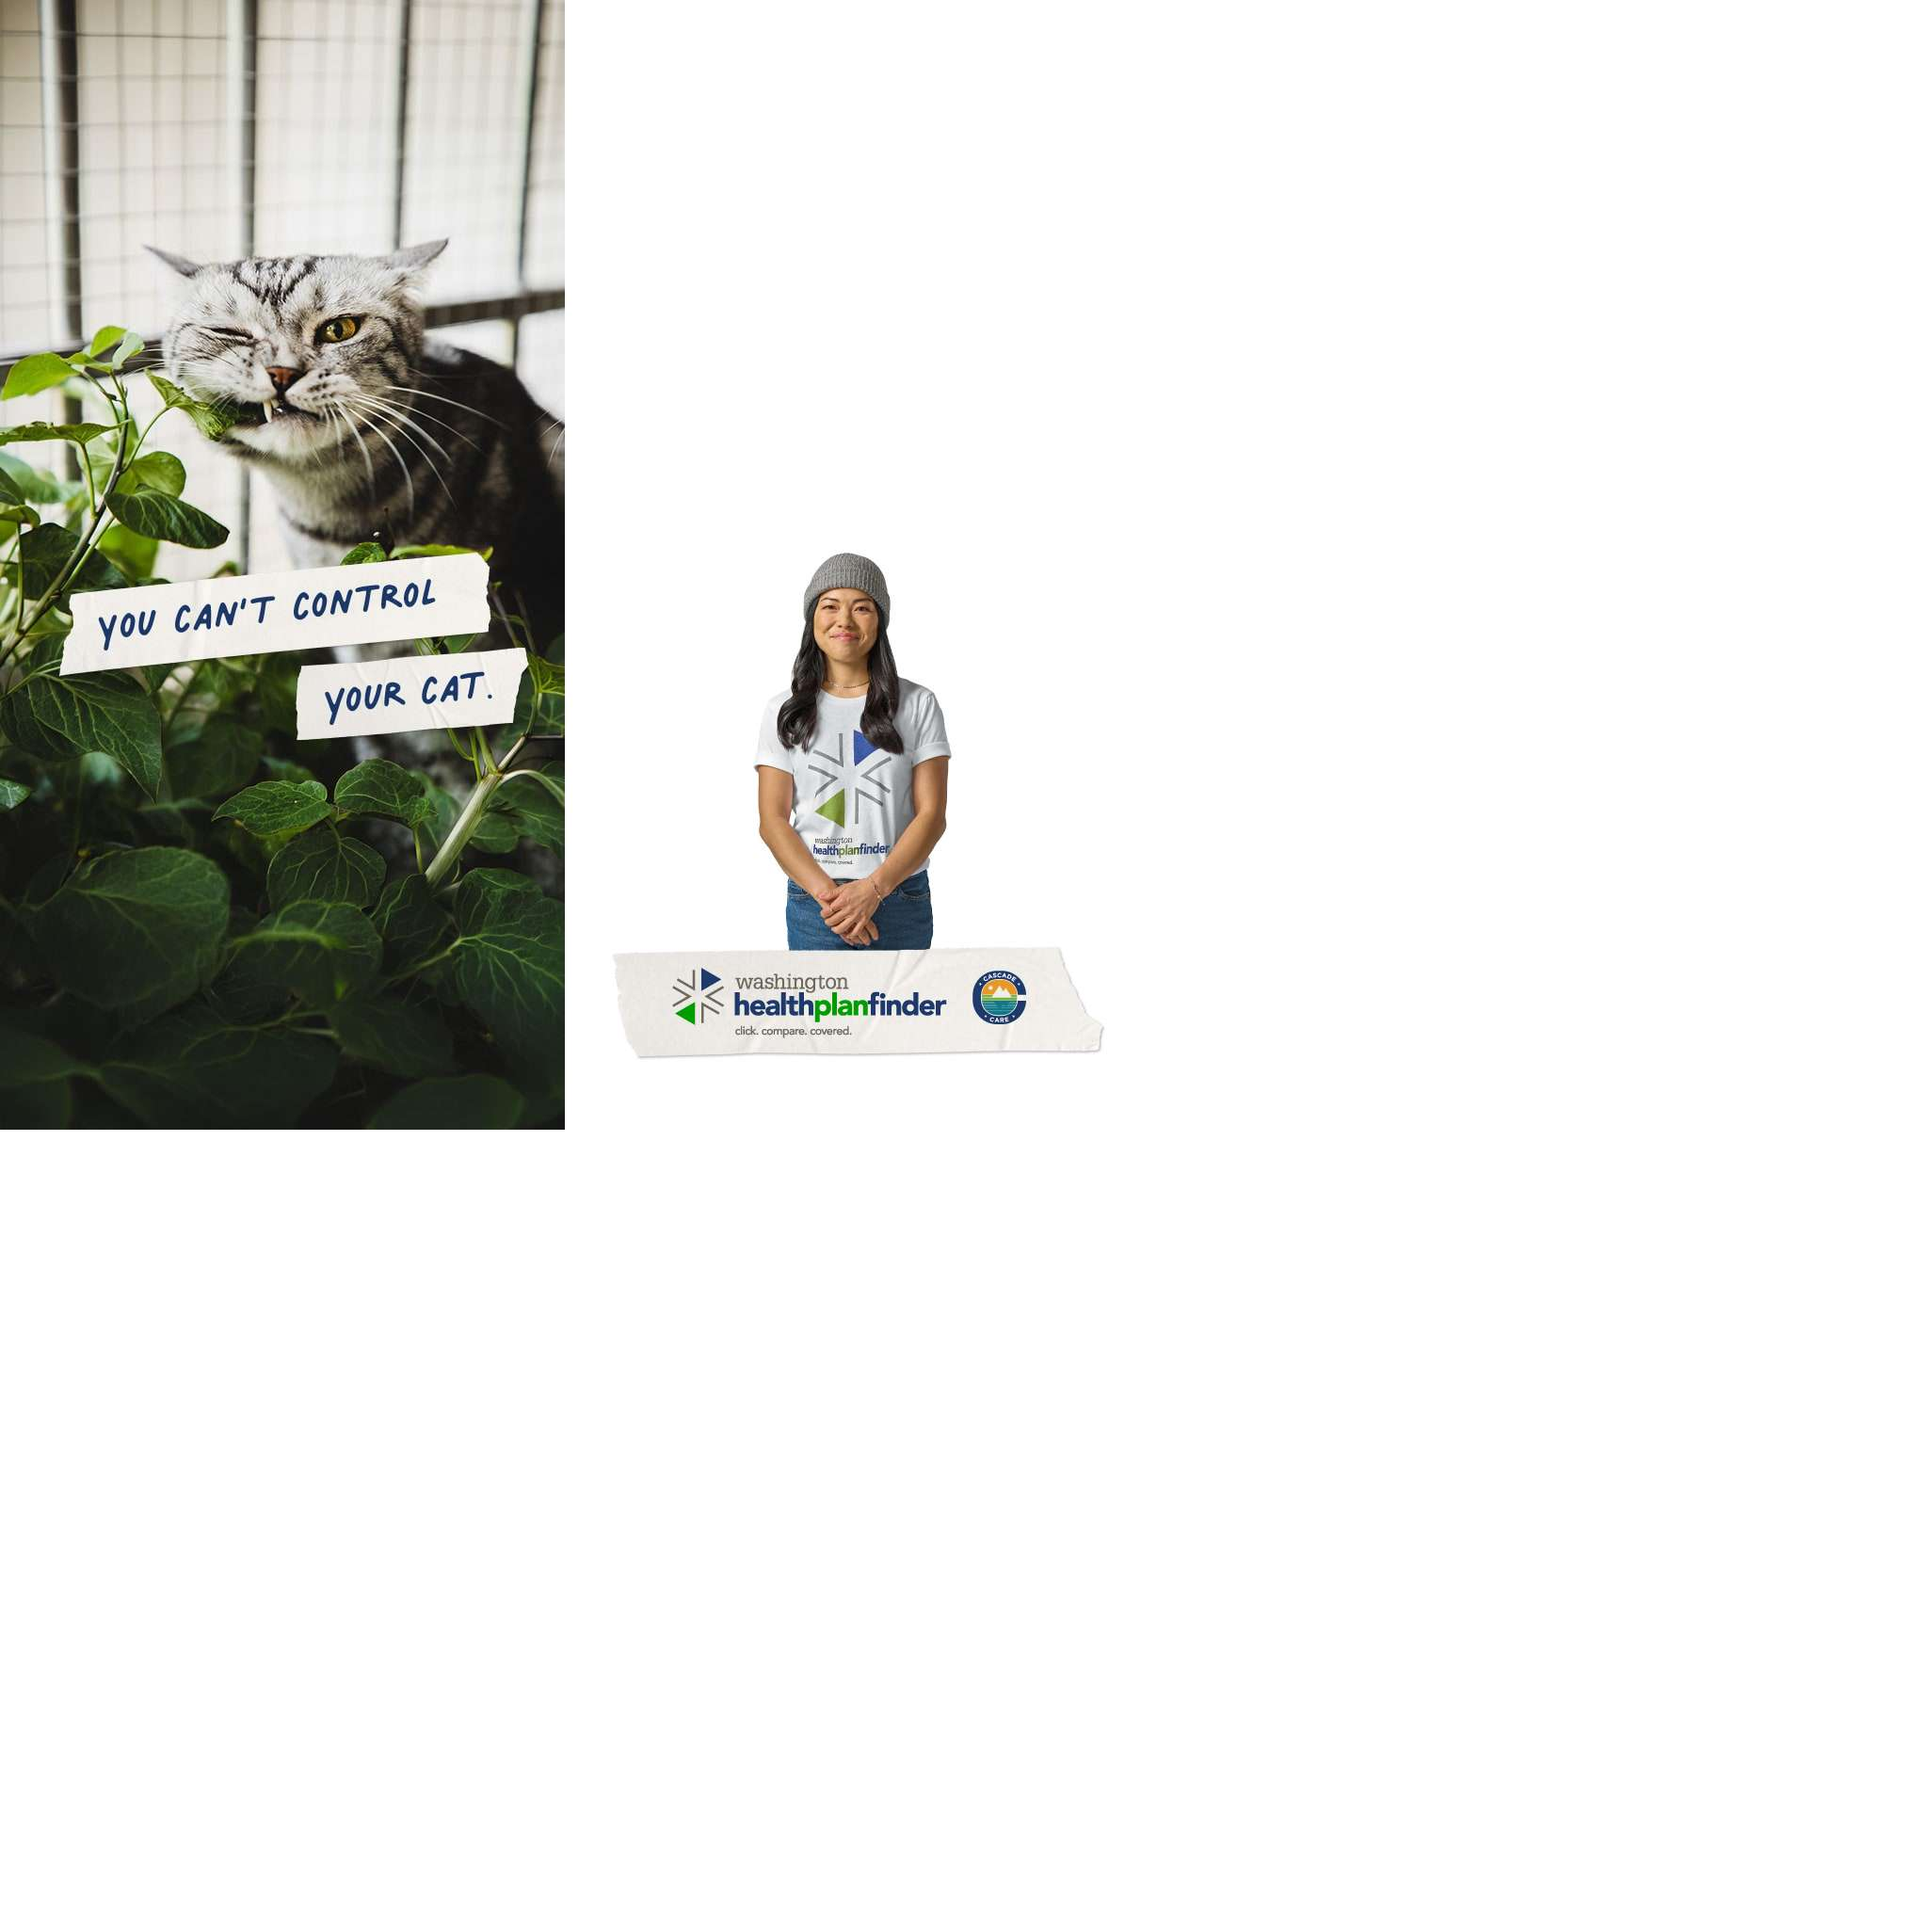
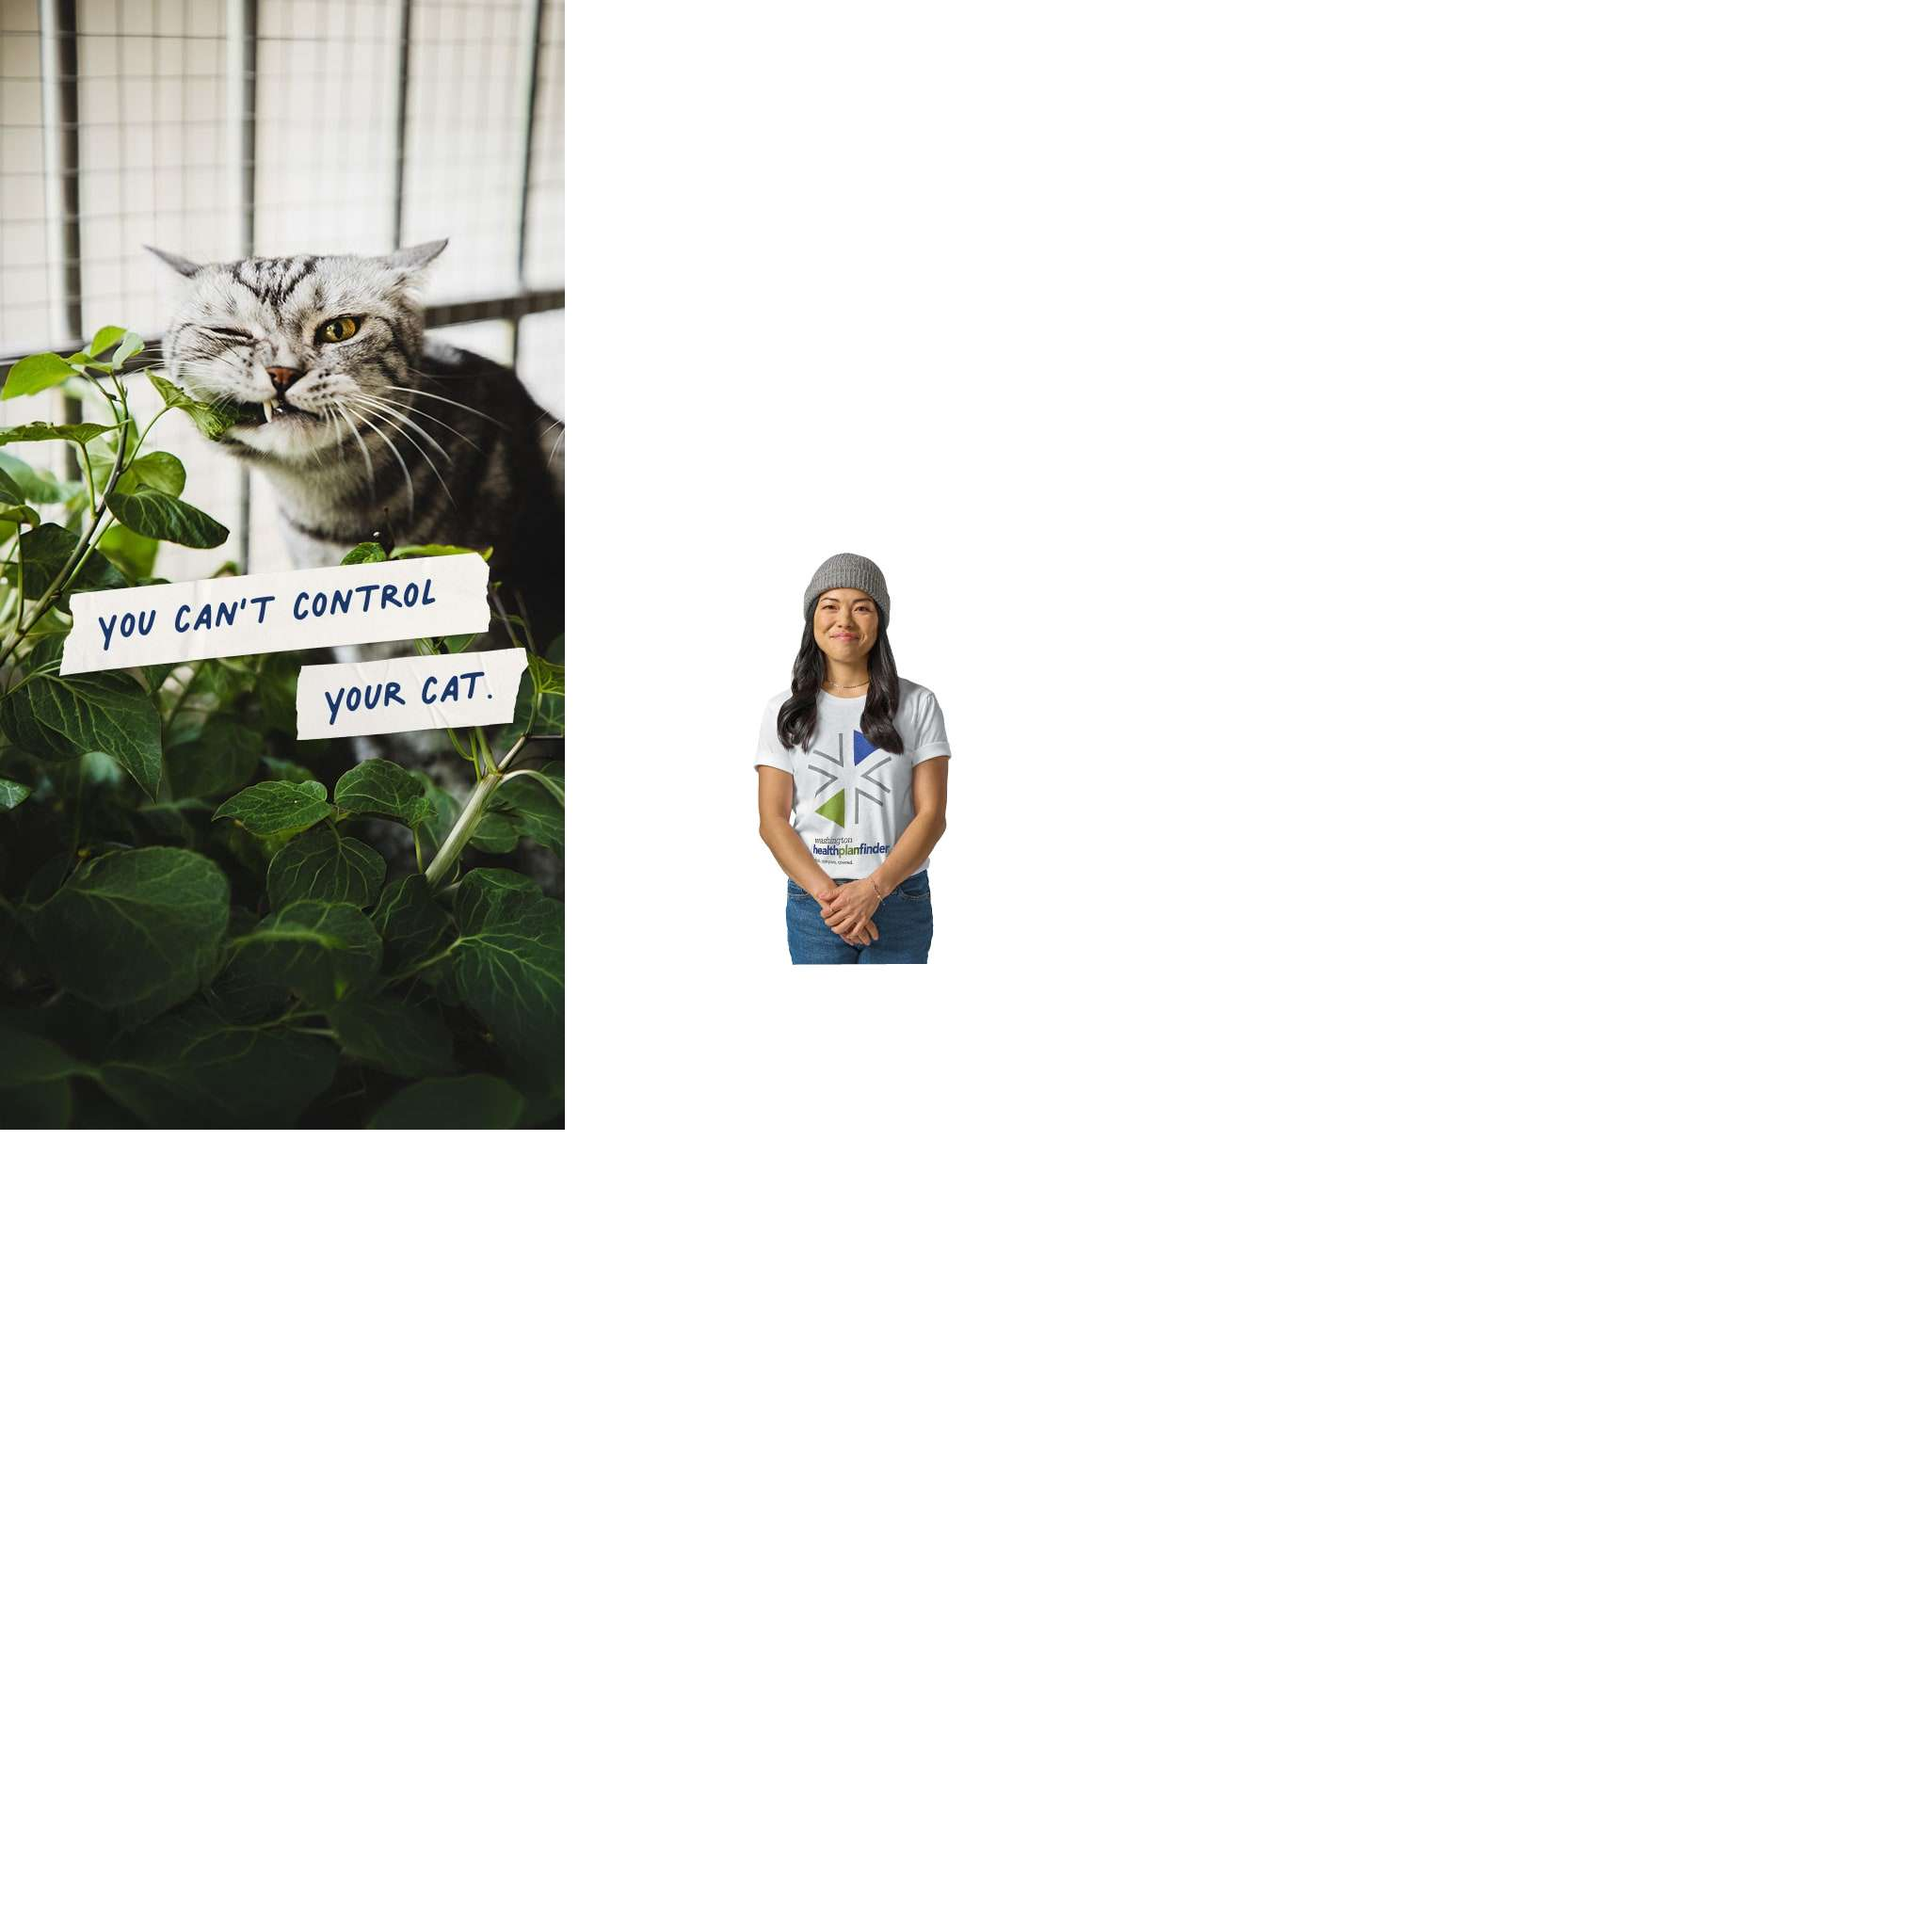
Add files via upload

Changed region(s): [[0.3125, 0.4688, 0.5625, 0.5625]]

diff --git a/preoe-eng/300x600/Cat_DV360-Display_ENG_300x600.js b/preoe-eng/300x600/Cat_DV360-Display_ENG_300x600.js
@@ -3,7 +3,7 @@
 var p; // shortcut to reference prototypes
 var lib={};var ss={};var img={};
 lib.ssMetadata = [
-		{name:"Cat_DV360_Display_ENG_300x600_atlas_P_1", frames: [[0,0,600,1200]]},
+		{name:"Cat_DV360_Display_ENG_300x600_atlas_P_1", frames: [[0,0,600,1200],[602,0,600,1200]]},
 		{name:"Cat_DV360_Display_ENG_300x600_atlas_NP_1", frames: [[0,0,600,1200],[602,0,600,1200]]}
 ];
 
@@ -42,8 +42,15 @@ lib.ssMetadata = [
 
 
 
-(lib._300x600B = function() {
+(lib._300x600BGirl = function() {
 	this.initialize(ss["Cat_DV360_Display_ENG_300x600_atlas_NP_1"]);
+	this.gotoAndStop(1);
+}).prototype = p = new cjs.Sprite();
+
+
+
+(lib._300x600BLOGO = function() {
+	this.initialize(ss["Cat_DV360_Display_ENG_300x600_atlas_P_1"]);
 	this.gotoAndStop(1);
 }).prototype = p = new cjs.Sprite();
 // helper functions:
@@ -65,7 +72,7 @@ function getMCSymbolPrototype(symbol, nominalBounds, frameBounds) {
 	}
 
 
-(lib.Tween1 = function(mode,startPosition,loop,reversed) {
+(lib.BKGD1 = function(mode,startPosition,loop,reversed) {
 if (loop == null) { loop = true; }
 if (reversed == null) { reversed = false; }
 	var props = new Object();
@@ -77,15 +84,81 @@ if (reversed == null) { reversed = false; }
 	cjs.MovieClip.apply(this,[props]);
 
 	// Layer_1
-	this.instance = new lib._300x600B();
+	this.instance = new lib._300x600A();
+	this.instance.setTransform(0,0,0.5,0.5);
+
+	this.timeline.addTween(cjs.Tween.get(this.instance).wait(1));
+
+	this._renderFirstFrame();
+
+}).prototype = getMCSymbolPrototype(lib.BKGD1, new cjs.Rectangle(0,0,300,600), null);
+
+
+(lib.BKGDwhite = function(mode,startPosition,loop,reversed) {
+if (loop == null) { loop = true; }
+if (reversed == null) { reversed = false; }
+	var props = new Object();
+	props.mode = mode;
+	props.startPosition = startPosition;
+	props.labels = {};
+	props.loop = loop;
+	props.reversed = reversed;
+	cjs.MovieClip.apply(this,[props]);
+
+	// Layer_2
+	this.shape = new cjs.Shape();
+	this.shape.graphics.f("#FFFFFF").s().p("EgXbAu4MAAAhdvMAu3AAAMAAABdvg");
+	this.shape.setTransform(0,175);
+
+	this.timeline.addTween(cjs.Tween.get(this.shape).wait(1));
+
+	this._renderFirstFrame();
+
+}).prototype = getMCSymbolPrototype(lib.BKGDwhite, new cjs.Rectangle(-150,-125,300,600), null);
+
+
+(lib.BKGDLOGOs = function(mode,startPosition,loop,reversed) {
+if (loop == null) { loop = true; }
+if (reversed == null) { reversed = false; }
+	var props = new Object();
+	props.mode = mode;
+	props.startPosition = startPosition;
+	props.labels = {};
+	props.loop = loop;
+	props.reversed = reversed;
+	cjs.MovieClip.apply(this,[props]);
+
+	// Layer_3
+	this.instance = new lib._300x600BLOGO();
 	this.instance.setTransform(-150,-125,0.5,0.5);
 
 	this.timeline.addTween(cjs.Tween.get(this.instance).wait(1));
 
 	this._renderFirstFrame();
 
-}).prototype = p = new cjs.MovieClip();
-p.nominalBounds = new cjs.Rectangle(-150,-125,300,600);
+}).prototype = getMCSymbolPrototype(lib.BKGDLOGOs, new cjs.Rectangle(-150,-125,300,600), null);
+
+
+(lib.BKGDGirl = function(mode,startPosition,loop,reversed) {
+if (loop == null) { loop = true; }
+if (reversed == null) { reversed = false; }
+	var props = new Object();
+	props.mode = mode;
+	props.startPosition = startPosition;
+	props.labels = {};
+	props.loop = loop;
+	props.reversed = reversed;
+	cjs.MovieClip.apply(this,[props]);
+
+	// Layer_3
+	this.instance = new lib._300x600BGirl();
+	this.instance.setTransform(-150,-125,0.5,0.5);
+
+	this.timeline.addTween(cjs.Tween.get(this.instance).wait(1));
+
+	this._renderFirstFrame();
+
+}).prototype = getMCSymbolPrototype(lib.BKGDGirl, new cjs.Rectangle(-150,-125,300,600), null);
 
 
 (lib._300x600HEAD2ai = function(mode,startPosition,loop,reversed) {
@@ -506,60 +579,73 @@ if (reversed == null) { reversed = false; }
 	props.reversed = reversed;
 	cjs.MovieClip.apply(this,[props]);
 
-	this.actionFrames = [189];
+	this.actionFrames = [179];
 	// timeline functions:
-	this.frame_189 = function() {
+	this.frame_179 = function() {
 		this.stop();
 	}
 
 	// actions tween:
-	this.timeline.addTween(cjs.Tween.get(this).wait(189).call(this.frame_189).wait(1));
+	this.timeline.addTween(cjs.Tween.get(this).wait(179).call(this.frame_179).wait(1));
 
 	// FRAME
 	this.instance = new lib._300x600AFRAME();
 	this.instance.setTransform(0,0,0.5,0.5);
 
-	this.timeline.addTween(cjs.Tween.get(this.instance).wait(190));
+	this.timeline.addTween(cjs.Tween.get(this.instance).wait(180));
 
 	// CTA
 	this.instance_1 = new lib.CTA();
-	this.instance_1.setTransform(150,255.6);
+	this.instance_1.setTransform(425,255.6);
 	this.instance_1._off = true;
 
-	this.timeline.addTween(cjs.Tween.get(this.instance_1).wait(71).to({_off:false},0).wait(71).to({scaleX:1.3,scaleY:1.3,x:149.95},3).to({scaleX:1,scaleY:1,x:150},5).wait(40));
+	this.timeline.addTween(cjs.Tween.get(this.instance_1).wait(55).to({_off:false},0).to({x:150},14,cjs.Ease.quadInOut).wait(73).to({scaleX:1.3,scaleY:1.3,x:149.95},3).to({scaleX:1,scaleY:1,x:150},5).wait(9).to({x:-150},14,cjs.Ease.quadInOut).wait(7));
 
 	// HEAD1
 	this.instance_2 = new lib.HEAD1();
-	this.instance_2.setTransform(1184.2,469.4,1,1,0,0,0,1034.2,469.4);
+	this.instance_2.setTransform(1334.2,469.4,1,1,0,0,0,1034.2,469.4);
 	this.instance_2._off = true;
 
-	this.timeline.addTween(cjs.Tween.get(this.instance_2).wait(80).to({_off:false},0).to({x:1034.2},14,cjs.Ease.quintOut).wait(96));
+	this.timeline.addTween(cjs.Tween.get(this.instance_2).wait(59).to({_off:false},0).to({x:1034.2},14,cjs.Ease.quadInOut).wait(90).to({x:734.2},14,cjs.Ease.quadInOut).wait(3));
 
 	// HEAD2
 	this.instance_3 = new lib.HEAD2();
-	this.instance_3.setTransform(1184.2,469.4,1,1,0,0,0,1034.2,469.4);
+	this.instance_3.setTransform(1334.2,469.4,1,1,0,0,0,1034.2,469.4);
 	this.instance_3._off = true;
 
-	this.timeline.addTween(cjs.Tween.get(this.instance_3).wait(104).to({_off:false},0).to({x:1034.2},14,cjs.Ease.quintOut).wait(72));
+	this.timeline.addTween(cjs.Tween.get(this.instance_3).wait(57).to({_off:false},0).to({x:1034.2},14,cjs.Ease.quadInOut).wait(90).to({x:734.2},14,cjs.Ease.quadInOut).wait(5));
 
-	// BKGD2
-	this.instance_4 = new lib.Tween1("synched",0);
-	this.instance_4.setTransform(150,125);
-	this.instance_4.alpha = 0;
+	// LOGOs
+	this.instance_4 = new lib.BKGDLOGOs("synched",0);
+	this.instance_4.setTransform(450,125);
 	this.instance_4._off = true;
 
-	this.timeline.addTween(cjs.Tween.get(this.instance_4).wait(65).to({_off:false},0).to({alpha:1},6).wait(119));
+	this.timeline.addTween(cjs.Tween.get(this.instance_4).wait(51).to({_off:false},0).to({x:150},12,cjs.Ease.quadInOut).wait(92).to({startPosition:0},0).to({x:-150},12,cjs.Ease.quadInOut).wait(13));
+
+	// Girl
+	this.instance_5 = new lib.BKGDGirl("synched",0);
+	this.instance_5.setTransform(450,125);
+	this.instance_5._off = true;
+
+	this.timeline.addTween(cjs.Tween.get(this.instance_5).wait(53).to({_off:false},0).to({x:150},12,cjs.Ease.quadInOut).wait(92).to({startPosition:0},0).to({x:-150},12,cjs.Ease.quadInOut).wait(11));
+
+	// BKGD2
+	this.instance_6 = new lib.BKGDwhite("synched",0);
+	this.instance_6.setTransform(450,125);
+	this.instance_6._off = true;
+
+	this.timeline.addTween(cjs.Tween.get(this.instance_6).wait(49).to({_off:false},0).to({x:150},12,cjs.Ease.quadInOut).wait(104).to({startPosition:0},0).to({x:-150},12,cjs.Ease.quadInOut).wait(3));
 
 	// BKGD1
-	this.instance_5 = new lib._300x600A();
-	this.instance_5.setTransform(0,0,0.5,0.5);
+	this.instance_7 = new lib.BKGD1();
+	this.instance_7.setTransform(250,300,1,1,0,0,0,250,300);
 
-	this.timeline.addTween(cjs.Tween.get(this.instance_5).to({_off:true},71).wait(119));
+	this.timeline.addTween(cjs.Tween.get(this.instance_7).wait(49).to({x:-50},12,cjs.Ease.quadInOut).wait(104).to({x:250},0).wait(15));
 
 	this._renderFirstFrame();
 
 }).prototype = p = new lib.AnMovieClip();
-p.nominalBounds = new cjs.Rectangle(150,300,234.39999999999998,300);
+p.nominalBounds = new cjs.Rectangle(-150,300,750,300);
 // library properties:
 lib.properties = {
 	id: '0957C5EC3B874C629166840920B09671',
